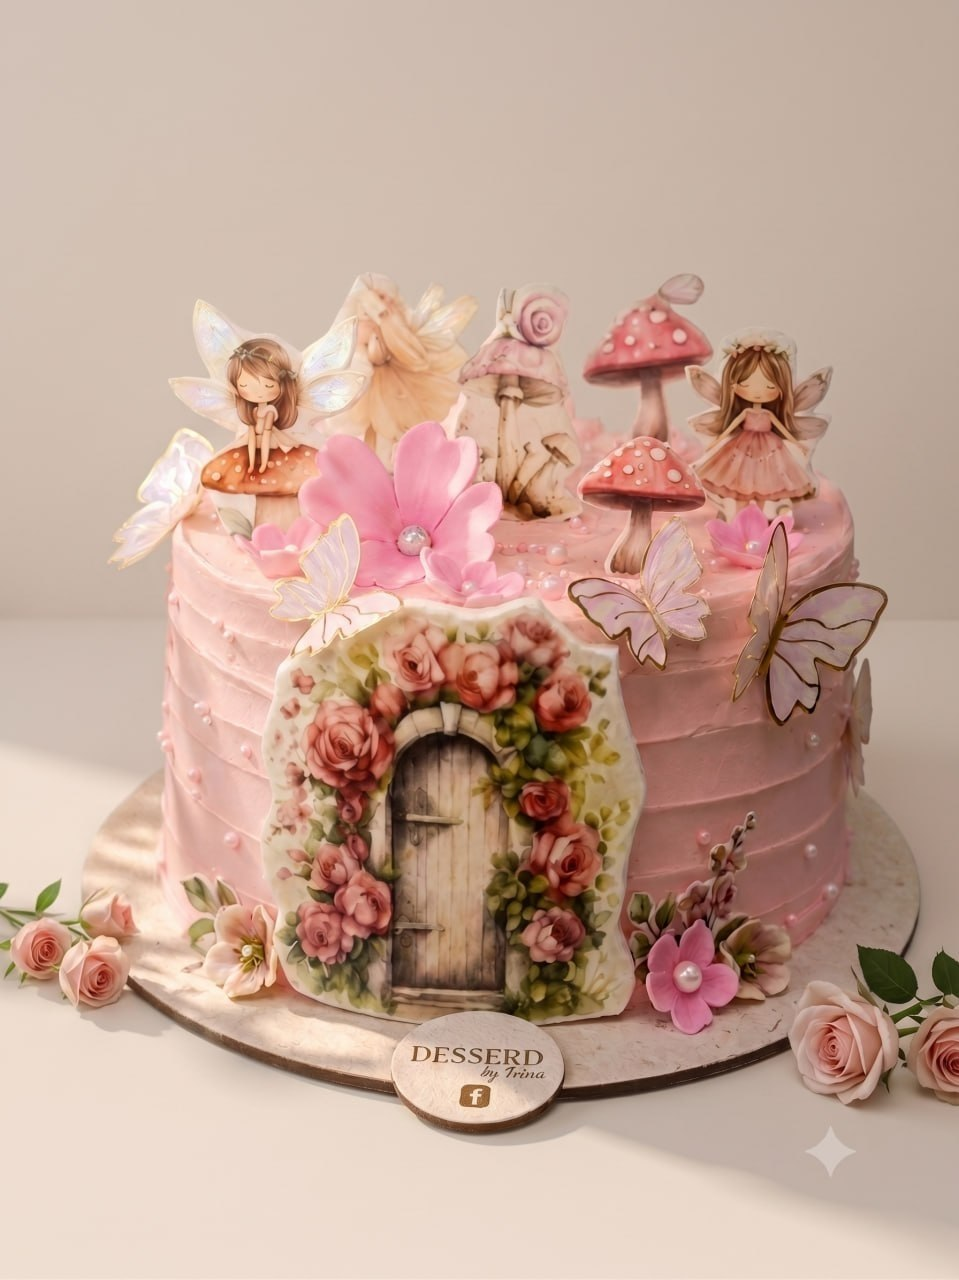
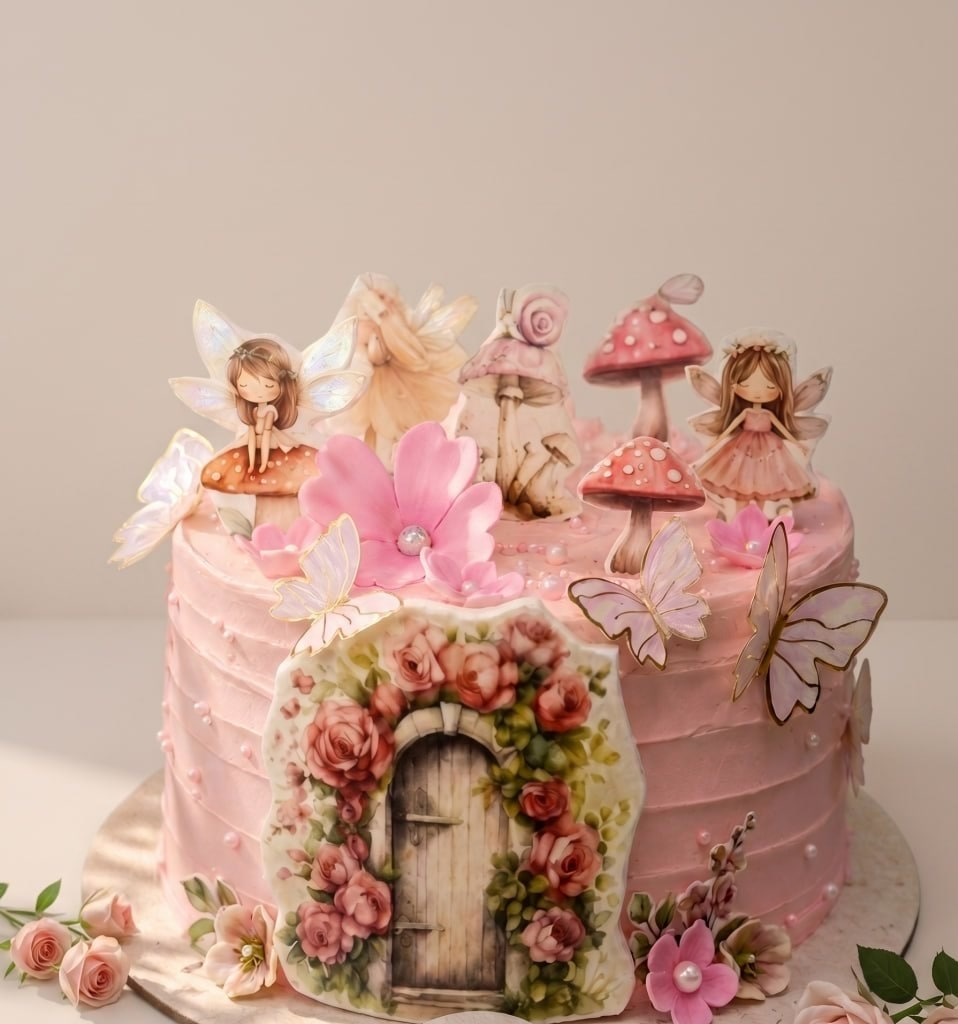
fix(desserdirina): crop seed hero to remove DESSERD wooden badge
Advocate-28ae336: default Desserdirina photography still showed the
rejected root sample disc «DESSERD by Irina» (+ Facebook mark) on first
screen at 390 live and editor mobile-preview. Seed copy was already
Desserdirina.

- Recrop templates/desserdirina/images/hero.jpg (top-anchored) so the
  board badge is gone from default pixels; keep cake/fairy composition.
- Leave root images/hero.jpg as rejected sample reference.
- Add pixel oracle (Vision OCR + hash) a stranger walk can see:
  bot/test/desserdirina-hero-no-desserd.test.js + scripts/ocr-vision.swift
- Evidence under 04-QA-Evidence/desserdirina-hero-no-desserd/ (editor 390
  + isolated test-pay live 390 OCR-clean).

No push / no production deploy.

diff --git a/bot/test/desserdirina-hero-no-desserd.test.js b/bot/test/desserdirina-hero-no-desserd.test.js
@@ -1,0 +1,223 @@
+'use strict';
+/**
+ * Desserdirina seed hero must not leak the rejected root sample brand
+ * «DESSERD by Irina» (wooden disc + Facebook mark) in raster photography.
+ *
+ * Fullpass innerText oracles cannot see logo pixels. This check:
+ *   (a) seed hero bytes ≠ root bakery sample hero
+ *   (b) Vision OCR on the seed hero file finds no DESSERD / by Irina
+ *   (c) editor mobile-preview canvas at 390px (stranger first screen) OCR-clean
+ *
+ * Run: node bot/test/desserdirina-hero-no-desserd.test.js
+ */
+const assert = require('assert');
+const fs = require('fs');
+const os = require('os');
+const path = require('path');
+const crypto = require('crypto');
+const { execFileSync, spawnSync } = require('child_process');
+
+const ROOT = path.resolve(__dirname, '../..');
+const PW_PATH = '/Users/Work/.hermes/hermes-agent/node_modules/playwright';
+const BRAVE = '/Applications/Brave Browser.app/Contents/MacOS/Brave Browser';
+const SEED_HERO = path.join(ROOT, 'templates/desserdirina/images/hero.jpg');
+const ROOT_HERO = path.join(ROOT, 'images/hero.jpg');
+const SWIFT_SRC = path.join(ROOT, 'scripts/ocr-vision.swift');
+const BAD_BRAND = /\bDESSERD\b/i;
+const BAD_BY = /\bby\s*(?:I|T)?rina\b/i; // OCR sometimes reads Irina as Trina
+
+const tmpDir = fs.mkdtempSync(path.join(os.tmpdir(), 'desserd-hero-'));
+process.env.DATA_DIR = tmpDir;
+process.env.SERVER_SECRET = 'desserd-hero-' + crypto.randomBytes(8).toString('hex');
+process.env.HIDOOK_ISOLATED_DEPLOY = '1';
+process.env.HIDOOK_TEST_PAY = '1';
+process.env.NODE_ENV = process.env.NODE_ENV === 'production' ? 'test' : (process.env.NODE_ENV || 'test');
+delete process.env.HIDOOK_FAKE_DEPLOY;
+delete process.env.STRIPE_SECRET_KEY;
+delete process.env.STRIPE_WEBHOOK_SECRET;
+
+let failed = 0;
+async function check(name, fn) {
+  try {
+    await fn();
+    console.log('PASS', name);
+  } catch (e) {
+    failed++;
+    console.error('FAIL', name, '-', e.message);
+    if (process.env.VERBOSE) console.error(e.stack);
+  }
+}
+
+function sha256File(p) {
+  return crypto.createHash('sha256').update(fs.readFileSync(p)).digest('hex');
+}
+
+function loadPlaywright() {
+  const candidates = [
+    path.join(ROOT, 'node_modules/playwright'),
+    PW_PATH,
+    path.join(ROOT, '../fullpass-63230d2/node_modules/playwright'),
+  ];
+  for (const cand of candidates) {
+    try {
+      return require(cand);
+    } catch (_) {}
+  }
+  throw new Error('playwright not found');
+}
+
+function ocrImage(absPath) {
+  assert.ok(fs.existsSync(SWIFT_SRC), 'scripts/ocr-vision.swift must ship for pixel OCR');
+  assert.ok(fs.existsSync(absPath), 'ocr target missing: ' + absPath);
+  // `swift` interprets the script (no separate binary to keep in-tree).
+  const r = spawnSync('swift', [SWIFT_SRC, absPath], {
+    encoding: 'utf8',
+    maxBuffer: 4 * 1024 * 1024,
+    timeout: 120000,
+  });
+  if (r.status !== 0) {
+    throw new Error('ocr-vision failed status=' + r.status + ' stderr=' + String(r.stderr || '').slice(0, 400));
+  }
+  return String(r.stdout || '');
+}
+
+function assertNoDesserdBrand(label, ocrText) {
+  const blob = String(ocrText || '');
+  assert.ok(!BAD_BRAND.test(blob), label + ' OCR must not contain DESSERD; got: ' + blob.slice(0, 240));
+  // "by Irina" / OCR "by Trina" only fails when paired with bakery context — still ban both forms.
+  assert.ok(!BAD_BY.test(blob), label + ' OCR must not contain by Irina/Trina; got: ' + blob.slice(0, 240));
+  assert.ok(!/\bFacebook\b/i.test(blob), label + ' OCR must not contain Facebook mark text; got: ' + blob.slice(0, 240));
+}
+
+(async function main() {
+  await check('static: seed hero exists and is a real photo', () => {
+    assert.ok(fs.existsSync(SEED_HERO), 'templates/desserdirina/images/hero.jpg');
+    const st = fs.statSync(SEED_HERO);
+    assert.ok(st.size > 20 * 1024, 'seed hero must be a real photo (>20KB), got ' + st.size);
+    // JPEG magic
+    const head = fs.readFileSync(SEED_HERO).subarray(0, 3);
+    assert.ok(head[0] === 0xff && head[1] === 0xd8 && head[2] === 0xff, 'seed hero is JPEG');
+  });
+
+  await check('static: seed hero bytes ≠ rejected root sample hero (DESSERD disc source)', () => {
+    assert.ok(fs.existsSync(ROOT_HERO), 'root images/hero.jpg kept as rejected sample reference');
+    const seedSha = sha256File(SEED_HERO);
+    const rootSha = sha256File(ROOT_HERO);
+    assert.notStrictEqual(
+      seedSha,
+      rootSha,
+      'templates/desserdirina/images/hero.jpg must not remain the root DESSERD sample bytes'
+    );
+  });
+
+  await check('static: presets still point at images/hero.jpg with Desserdirina wordmark', () => {
+    const presets = JSON.parse(fs.readFileSync(path.join(ROOT, 'templates/desserdirina/presets.json'), 'utf8'));
+    assert.ok((presets.presets || []).length >= 1, 'presets');
+    for (const p of presets.presets) {
+      const cfg = p.config || {};
+      const biz = cfg.business || {};
+      assert.ok(/^Desserdirina$/i.test(String(biz.name || '').trim()), p.id + ' business.name');
+      assert.ok(!/\bDESSERD\b/i.test(JSON.stringify(cfg)), p.id + ' no DESSERD in config');
+      const bg = String((cfg.hero && cfg.hero.background) || '');
+      assert.match(bg, /images\/hero\.jpg/, p.id + ' hero.background uses images/hero.jpg');
+      assert.strictEqual(cfg.showWordmark, true, p.id + ' showWordmark');
+    }
+  });
+
+  await check('pixel: Vision OCR on seed hero file has no DESSERD / by Irina', () => {
+    const text = ocrImage(SEED_HERO);
+    assertNoDesserdBrand('seed hero.jpg', text);
+  });
+
+  // Causal RED sanity: the rejected root sample still OCRs as DESSERD (proves the oracle sees raster brand).
+  await check('pixel: root sample hero still OCRs as DESSERD (oracle sensitivity)', () => {
+    const text = ocrImage(ROOT_HERO);
+    assert.ok(BAD_BRAND.test(text), 'root images/hero.jpg must still read DESSERD so the oracle is live; got: ' + text.slice(0, 200));
+  });
+
+  execFileSync('node', [path.join(ROOT, 'scripts/build-builder.js')], {
+    cwd: ROOT,
+    stdio: ['ignore', 'ignore', 'pipe'],
+  });
+
+  const { startServer } = require('../server.js');
+  const server = startServer({ port: 0 });
+  await new Promise((resolve) => {
+    if (server.listening) return resolve();
+    server.once('listening', resolve);
+  });
+  const port = server.address().port;
+  const base = 'http://127.0.0.1:' + port;
+
+  try {
+    await check('browser: editor mobile-preview 390px hero canvas OCR has no DESSERD', async () => {
+      const { chromium } = loadPlaywright();
+      const browser = await chromium.launch({
+        headless: true,
+        executablePath: fs.existsSync(BRAVE) ? BRAVE : undefined,
+      });
+      const shotPath = path.join(tmpDir, 'desserdirina-mobile-hero-390.png');
+      try {
+        const page = await browser.newPage({ viewport: { width: 1280, height: 900 } });
+        page.setDefaultTimeout(30000);
+        await page.goto(base + '/app/', { waitUntil: 'domcontentloaded' });
+        if (await page.locator('#hb-cookie-accept').isVisible().catch(() => false)) {
+          await page.locator('#hb-cookie-accept').click().catch(() => {});
+        }
+        await page.locator('.template-card[data-template-id="desserdirina"] .btn-start-tpl').click();
+        await page.waitForURL(/#edit$/, { timeout: 30000 });
+        await page.locator('#preview-iframe').waitFor({ state: 'visible', timeout: 30000 });
+        await page.waitForTimeout(1200);
+        const drawer = page.locator('#details-drawer');
+        if (await drawer.isVisible().catch(() => false)) {
+          await page.locator('#btn-close-drawer').click({ timeout: 4000 }).catch(() => {});
+          await drawer.waitFor({ state: 'hidden', timeout: 5000 }).catch(() => {});
+        }
+        // Stranger repro: Vizualizare mobil at 390 canvas
+        const mobileBtn = page.locator('#btn-preview-mobile');
+        if (await mobileBtn.isVisible().catch(() => false)) {
+          await mobileBtn.click();
+          await page.waitForTimeout(600);
+        }
+        await page.waitForTimeout(500);
+        const frame = page.frameLocator('#preview-iframe');
+        await frame.locator('body').waitFor({ state: 'attached', timeout: 20000 });
+        await frame.locator('.hero, .hero-wordmark, .hero-tagline').first().waitFor({
+          state: 'visible',
+          timeout: 20000,
+        });
+        // Screenshot the preview iframe region (what the stranger sees on first screen).
+        const iframe = page.locator('#preview-iframe');
+        await iframe.screenshot({ path: shotPath });
+        assert.ok(fs.existsSync(shotPath) && fs.statSync(shotPath).size > 8 * 1024, 'hero canvas shot written');
+
+        const ocr = ocrImage(shotPath);
+        // Positive control: Desserdirina wordmark should still be readable on first screen.
+        assert.ok(
+          /Desserdirina/i.test(ocr) || /TORTURI|ARTIZANAL/i.test(ocr),
+          'positive: Desserdirina seed copy should OCR on first screen; got: ' + ocr.slice(0, 240)
+        );
+        assertNoDesserdBrand('editor mobile-preview 390 hero', ocr);
+
+        // Keep a copy under QA evidence for humans.
+        const evDir = path.join(ROOT, '04-QA-Evidence/desserdirina-hero-no-desserd');
+        fs.mkdirSync(evDir, { recursive: true });
+        fs.copyFileSync(shotPath, path.join(evDir, 'editor-mobile-preview-390-hero.png'));
+        fs.writeFileSync(path.join(evDir, 'ocr-editor-390.txt'), ocr);
+      } finally {
+        await browser.close();
+      }
+    });
+  } finally {
+    await new Promise((resolve) => server.close(resolve));
+  }
+
+  if (failed) {
+    console.error('\n' + failed + ' check(s) failed');
+    process.exit(1);
+  }
+  console.log('\nOK desserdirina-hero-no-desserd');
+})().catch((e) => {
+  console.error(e);
+  process.exit(1);
+});

diff --git a/scripts/ocr-vision.swift b/scripts/ocr-vision.swift
@@ -1,0 +1,31 @@
+#!/usr/bin/env swift
+import Foundation
+import Vision
+import AppKit
+
+// Minimal Vision OCR for pixel oracles (raster logos innerText cannot see).
+guard CommandLine.arguments.count >= 2 else {
+    fputs("usage: ocr-vision.swift <image-path>\n", stderr)
+    exit(2)
+}
+let path = CommandLine.arguments[1]
+guard FileManager.default.fileExists(atPath: path),
+      let img = NSImage(contentsOfFile: path),
+      let tiff = img.tiffRepresentation,
+      let rep = NSBitmapImageRep(data: tiff),
+      let cg = rep.cgImage else {
+    fputs("load-fail \(path)\n", stderr)
+    exit(3)
+}
+let req = VNRecognizeTextRequest()
+req.recognitionLevel = .accurate
+req.usesLanguageCorrection = false
+let handler = VNImageRequestHandler(cgImage: cg, options: [:])
+do {
+    try handler.perform([req])
+} catch {
+    fputs("ocr-fail \(error)\n", stderr)
+    exit(4)
+}
+let texts = (req.results ?? []).compactMap { $0.topCandidates(1).first?.string }
+print(texts.joined(separator: "\n"))

diff --git a/04-QA-Evidence/desserdirina-hero-no-desserd/README.md b/04-QA-Evidence/desserdirina-hero-no-desserd/README.md
@@ -1,0 +1,21 @@
+# Desserdirina hero — no DESSERD leak
+
+## Defect
+Seed copy was Desserdirina / București, but `templates/desserdirina/images/hero.jpg`
+still showed a wooden disc «DESSERD by Irina» + Facebook mark (rejected root sample).
+
+## Fix
+Top-anchored crop of the seed hero (remove bottom board/badge). Root `images/hero.jpg`
+left untouched as the rejected sample reference.
+
+## Oracle
+`node bot/test/desserdirina-hero-no-desserd.test.js`
+- seed hero SHA ≠ root sample
+- Vision OCR on seed file clean
+- root sample still OCRs DESSERD (sensitivity)
+- editor mobile-preview 390 canvas OCR clean + keeps Desserdirina wordmark
+
+## Stranger proof (this folder)
+- `editor-mobile-preview-390-hero.png` + `ocr-editor-390.txt`
+- `live-site-390.png` + `ocr-live-390.txt` (test-pay isolated `/live/…` at 390×844)
+- OCR reads Desserdirina / TORTURI… only — no DESSERD / by Irina
